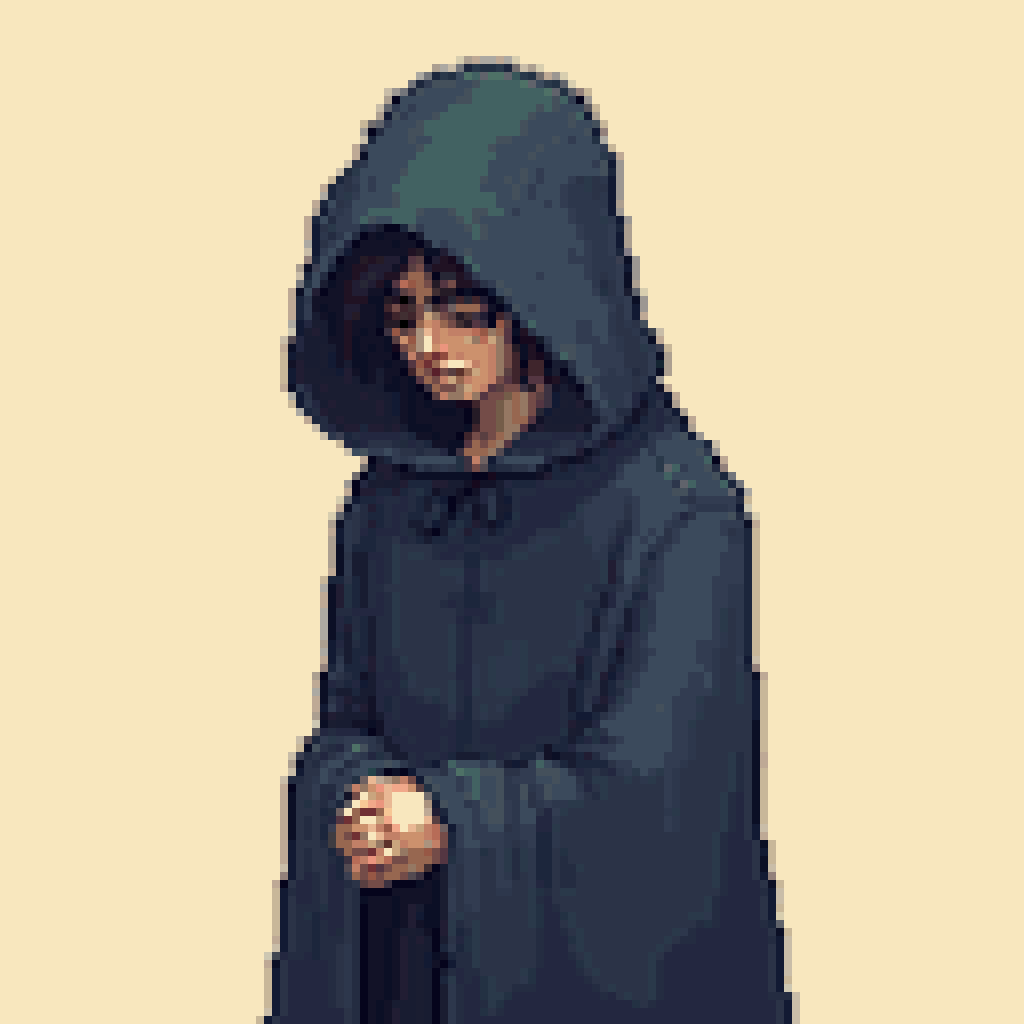
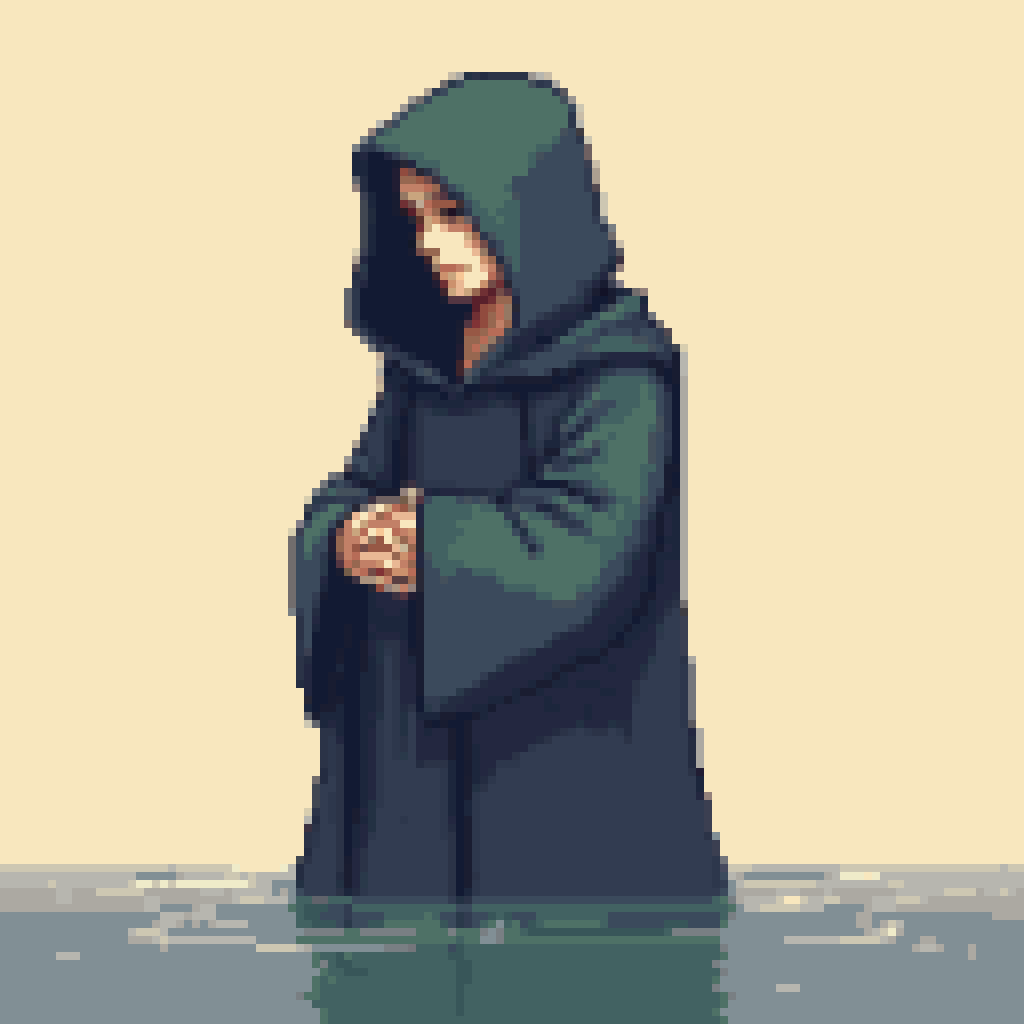
走讀：16 位探員像素頭像、NPC 6 張修正圖

diff --git a/art/agents16/prompts.md b/art/agents16/prompts.md
@@ -1,0 +1,35 @@
+# 16 位時安局探員 16 位元像素頭像（2026-10-29）
+
+沿用 art/npc_pixel16 同一套流程：FLUX.1-dev Q8_0 GGUF（comfy-gen preset flux-dev-q8）768x768、24 步，每張約 2-3.5 分鐘（記憶體吃緊時較慢）。
+後處理：PIL BOX 縮到 128x128 → 與背景（248,231,190）距離 <60 的像素設為背景色 → 右下角 16x12 若僅少量雜點則塗成背景 → 用 npc_pixel16/palette_shared.json（96 色共用調色盤＋背景色）quantize（不抖色）→ 另存最近鄰 8 倍 1024x1024（NN_xx.png）與 128（_128.png）。FLUX 原圖在 _raw/。
+注意：BOX 縮放對全部 16 張一律採用（未用 proper-pixel-art 偵測格，因上批 6 張偵測本就不穩）；縮放後動漫感的圖也會變成像素風。
+
+## 風格段
+01-03、05-08 使用：`pixel art sprite portrait, 16-bit SNES JRPG character portrait, clean pixel art, limited palette, clear outlines, soft shading with minimal dithering, half-body bust, plain flat beige background, single character, no text, no letters, no logos, no numbers, no symbols, no writing on clothes`
+04 重生、09-16 前面加 `chunky 16-bit pixel art with large visible square pixels, `（前幾張出現動漫貼紙風，加了之後較穩）。
+
+## 共同識別
+每位皆要求：左胸一枚素色圓形霧面銀色小徽章、表面全空白、無星形、無符號（`a small plain round matte silver badge on the left chest, completely blank smooth surface, no star, no symbol`）。01 隊長的徽章被畫成帶船錨（符合 look 欄位的 brass anchor pin，非真實機關符號）。
+
+## 逐張紀錄（最終採用）
+| 編號 | 職務 | 檔名 | 採用原圖 | seed | 重生 |
+|---|---|---|---|---|---|
+| 01 | 隊長 | 01_captain | 01_captain | 3001 | 否 |
+| 02 | 領航員 | 02_navigator | 02_navigator | 3002 | 否（原圖動漫風，縮成 128 後可接受） |
+| 03 | 軍師 | 03_strategist | 03_strategist | 3003 | 否 |
+| 04 | 偵查員 | 04_scout | 04_scout_r2 | 3204 | 是 2 次（原 3004 貼紙風＋肩章符號；r1 3104 出現星形；r2 3204 袖口一枚素圓章） |
+| 05 | 檔案官 | 05_archivist | 05_archivist | 3005 | 否 |
+| 06 | 訪談員 | 06_interviewer | 06_interviewer | 3006 | 否 |
+| 07 | 蒐證員 | 07_photographer | 07_photographer | 3007 | 否 |
+| 08 | 記錄官 | 08_recorder | 08_recorder | 3008 | 否 |
+| 09 | 文化設計員 | 09_designer | 09_designer_r1 | 3109 | 是（原 3009 袖口有符號貼片） |
+| 10 | 通訊官 | 10_radio | 10_radio | 3010 | 否（去掉 antenna badge 字樣以免畫成符號） |
+| 11 | 安全官 | 11_safety | 11_safety_r2 | 3211 | 是 2 次（3011 袖口紅十字；3111 白十字；r2 胸前名牌有字樣小圖，已用像素塗掉名牌並清掉左下角簽名樣小印記） |
+| 12 | 補給官 | 12_supply | 12_supply_r2 | 3212 | 是 2 次（3012 肩章星形；3112 肩章圓形圖案；r2 乾淨，徽章在帽子上） |
+| 13 | 鑑識員 | 13_forensic | 13_forensic | 3013 | 否 |
+| 14 | 技術專家 | 14_tech | 14_tech_r1 | 3114 | 是（原 3014 胸前名牌） |
+| 15 | 在地嚮導 | 15_local_guide | 15_local_guide | 3015 | 否 |
+| 16 | 扮演專員 | 16_actor | 16_actor | 3016 | 否 |
+
+## 角色段提示詞（後接共同識別與風格段）
+01-08 角色段後接 `bust portrait cropped at the waist with the lower body not visible, large head`；09-16 後接 `bust portrait cropped at the waist`（去掉 large head：它讓畫面太特寫、風格偏動漫）。角色描述即 js/walk_agents.js 的 look 欄位原文（15 的 comfortable shoes 因半身不入鏡而略去；10 去掉 antenna badge）。

diff --git a/art/npc_pixel16/prompts.md b/art/npc_pixel16/prompts.md
@@ -70,3 +70,14 @@ A=FLUX＋後處理（2 張，約 117-121 秒）；B=SDXL animagine-xl4＋pixel-a
 ## 備註
 - 重生：01/04/07/16 各 1 次，02/10 各 2 次（楊老師要求拿掉徽章與數字）；02 重生 2 次後仍有小圓徽，需人工看。
 - 未下載模型、未安裝節點、未 git。
+
+## 2026-10-29 第二輪修正（08/09/13/15/17/19 改半身）
+後處理同上（PIL BOX 縮 128、共用調色盤、米色背景），舊版移到 _raw/old_NN_*。新原圖在 _raw_fix/。第二輪的風格段在 17、13 重生時前面加了 `chunky 16-bit pixel art with large visible square pixels, `。
+| 編號 | 採用原圖 | seed | 備註 |
+|---|---|---|---|
+| 08 | 08_water_watcher | 2108 | 半身連帽披風、雙手交疊；下緣有一圈水波（氛圍），共用調色盤使披風偏綠 |
+| 09 | 09_banyan_elder | 2109 | 雙手交疊在身前；兩側榕樹葉與垂根；表情偏嚴肅、人物較小 |
+| 13 | 13_signpost_inspector_r4 | 2614 | 雙手拿空白灰色路牌板（無字）；改成無夾板（夾板版 2014/2314/2514 都沒有路牌或變全身） |
+| 15 | 15_school_janitor | 2116 | 鑰匙串舉在手上清楚可見 |
+| 17 | 17_old_accountant_r1（去陰影） | 2218 | 半身、算盤清楚、細框眼鏡；原圖腳下有橢圓地面陰影，已用像素處理塗成背景；第一輪 2118 與 r2 2418 都變全身（r2 還帶簽名樣印記）而淘汰 |
+| 19 | 19_night_gatekeeper_r1 | 2220 | 半身、燈籠與大鑰匙都入鏡（燈籠底部貼近下緣）；第一輪 2120 為全身；r1 兜帽、眼睛偏冷厲 |
